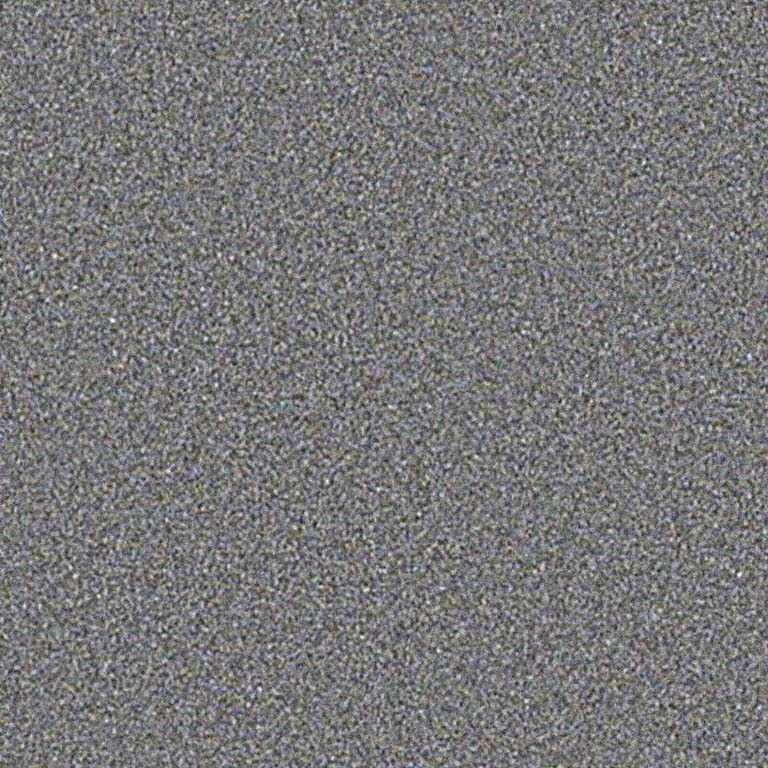
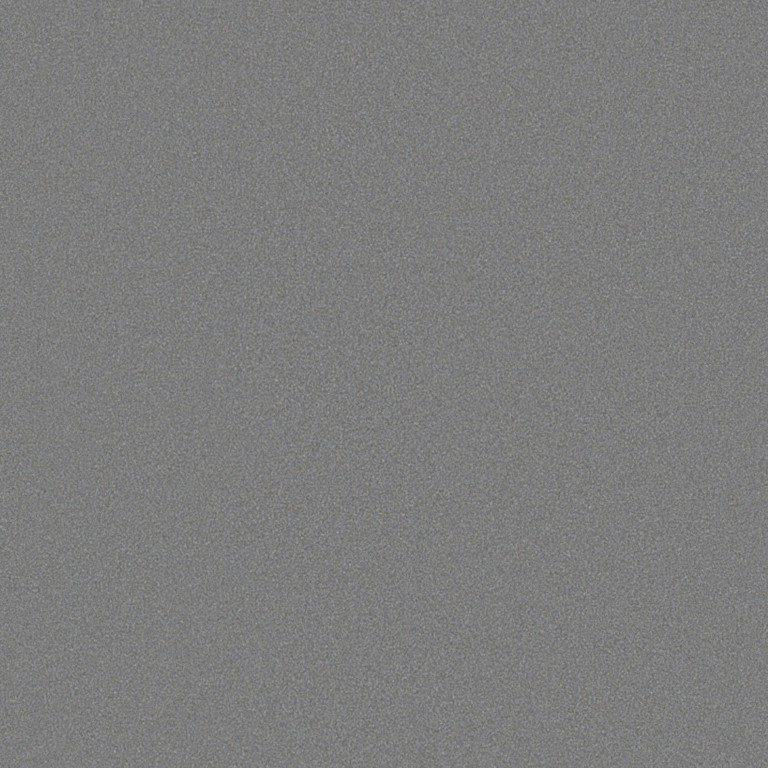
Grano mucho más fino y sutil
Claude-Session: https://claude.ai/code/session_01SjPhB7cRF7R2ogQe6hDxoS

diff --git a/app.js b/app.js
@@ -572,7 +572,11 @@
   // con los bordes un poco apretados para que sean granos y no manchas, y algo de color en cada canal
   // Escaneos reales de grano (50D y 500T sobre gris neutro), recortados en teselas sin costuras
   // y centrados para que con soft-light no cambien el color medio del fondo
-  const GRAINS = { "50D": "img/grain-50d.jpg?v=1", "500T": "img/grain-500t.jpg?v=1" };
+  // Cada píxel de la tesela ocupa un píxel físico de la pantalla, así el grano es igual de fino en cualquier pantalla
+  const GRAINS = { "50D": "img/grain-50d.jpg?v=2", "500T": "img/grain-500t.jpg?v=2" };
+  const grainSize = () => root.style.setProperty("--grain-size", 768 / (window.devicePixelRatio || 1) + "px");
+  grainSize();
+  window.addEventListener("resize", grainSize);
   function setGrain(name) {
     root.style.setProperty("--grain-img", GRAINS[name] ? `url(${GRAINS[name]})` : "none");
     root.dataset.grain = GRAINS[name] ? name : "none";

diff --git a/index.html b/index.html
@@ -9,7 +9,7 @@
 <link rel="preconnect" href="https://fonts.googleapis.com">
 <link rel="preconnect" href="https://fonts.gstatic.com" crossorigin>
 <link rel="stylesheet" href="https://fonts.googleapis.com/css2?family=Epilogue:ital,wght@0,300..700;1,300..700&family=Noto+Serif+Display:ital,wght@0,100..900;1,100..900&display=swap">
-<link rel="stylesheet" href="styles.css?v=202610271955">
+<link rel="stylesheet" href="styles.css?v=202610272005">
 </head>
 <body>
 <a class="skip" href="#main">Saltar al contenido</a>
@@ -79,7 +79,7 @@
   </section>
 </div>
 
-<script src="projects.js?v=202610271955"></script>
-<script src="app.js?v=202610271955"></script>
+<script src="projects.js?v=202610272005"></script>
+<script src="app.js?v=202610272005"></script>
 </body>
 </html>
